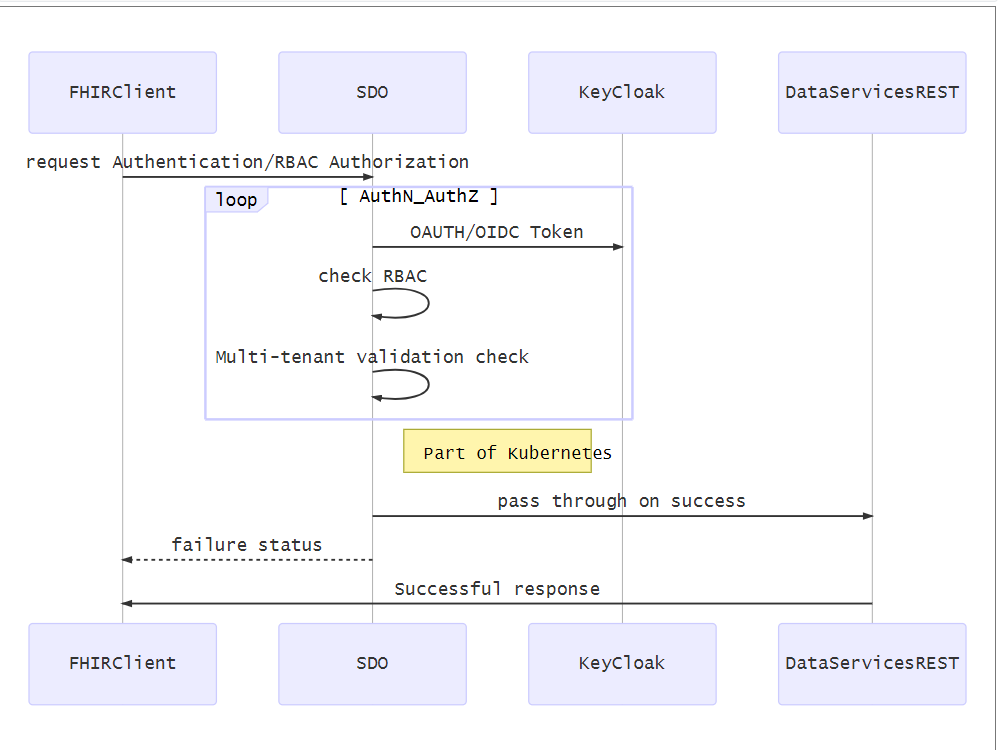
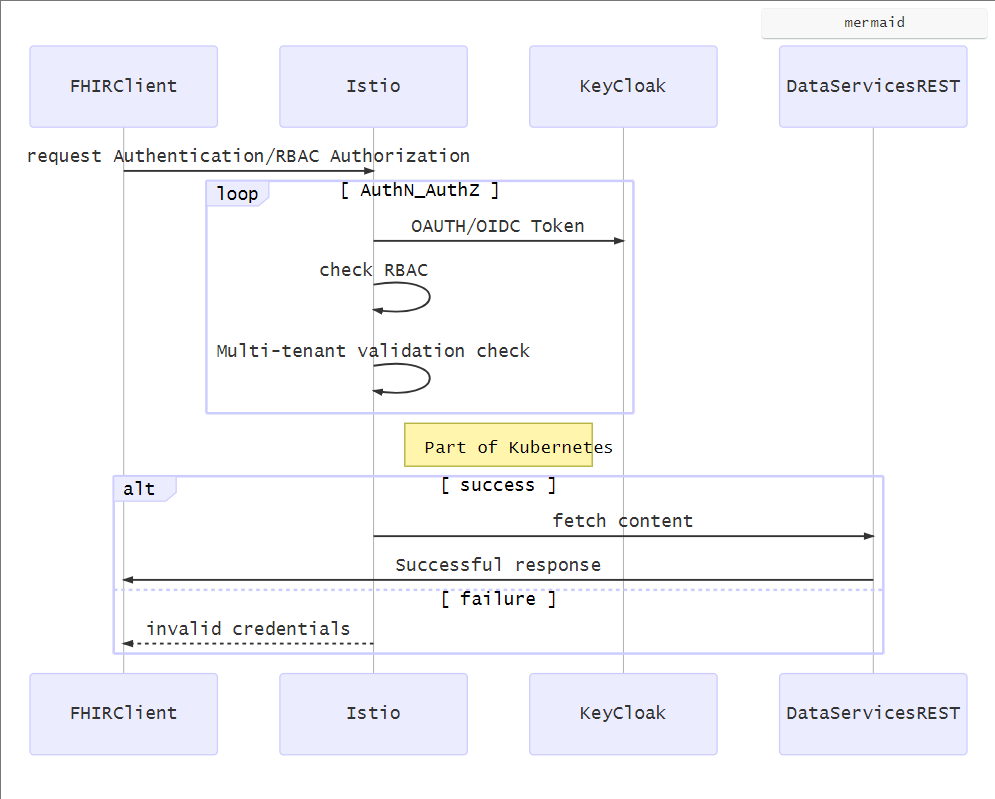
SDO to istio

diff --git a/README.md b/README.md
@@ -23,9 +23,13 @@ sequenceDiagram
       Istio->>Istio: Multi-tenant validation check
     end
     Note right of Istio: Part of Kubernetes
-    Istio->>DataServicesREST: pass through on success
-    Istio-->>FHIRClient: failure status
-    DataServicesREST->>FHIRClient: Successful response
+    alt success
+     Istio->>DataServicesREST: fetch content
+     DataServicesREST->>FHIRClient: Successful response
+    else failure
+     Istio-->>FHIRClient: invalid credentials
+    end
+   
 ```
 
 
